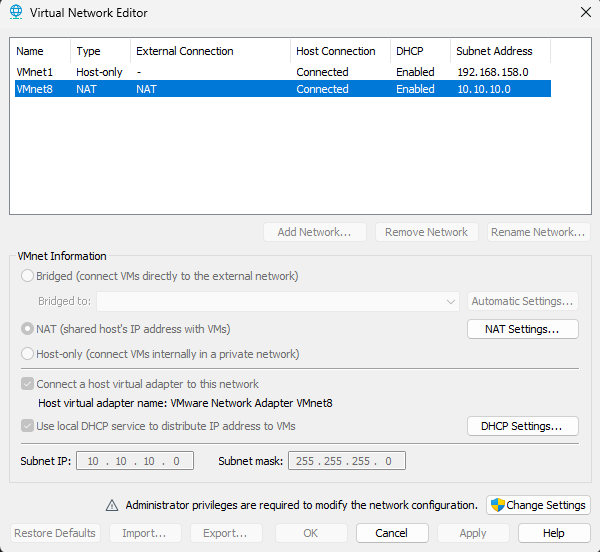
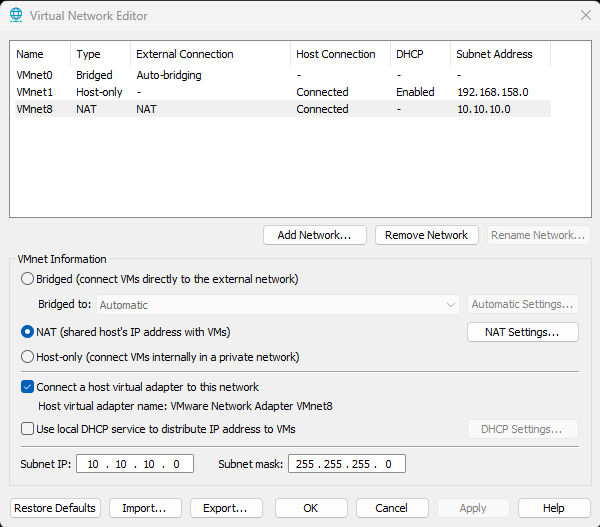
Disable VMnet8 DHCP; update Phase 1 outstanding list
Turning off VMware's DHCP service on the lab network completes the
addressing design: every host is static and nothing hands out VMware's
own DNS server, which would break AD domain joins for any VM added
later.

Replaces the VMnet8 screenshot, which still showed DHCP enabled and
contradicted the surrounding text.

diff --git a/docs/phase-1-build-notes.md b/docs/phase-1-build-notes.md
@@ -437,10 +437,11 @@ and both connection tests returning `True`.
 
 ## Outstanding
 
-- [ ] Disable the local DHCP service on VMnet8 — currently still enabled, which contradicts the
-      network plan. Not breaking anything while every host is static, but any future VM (or a reset
-      adapter) would receive VMware's DNS server and fail to join the domain.
-- [ ] Confirm the client's DNS is `10.10.10.10` and nothing else — no public resolver as a secondary.
+- [x] Disable the local DHCP service on VMnet8. Nothing was breaking while every host was static, but
+      leaving it enabled meant any future VM — a Kali host in Phase 4, a second client — would receive
+      an address *plus VMware's DNS server*, which is exactly the condition that breaks AD domain
+      joins. The cause would be a checkbox on the hypervisor rather than anything visible on the VM.
+- [x] Confirm the client's DNS is `10.10.10.10` and nothing else — no public resolver as a secondary.
 - [x] Promote the DC to AD DS, create the `soclab.local` domain, and add a DNS forwarder to
       `10.10.10.2` so the DC can still resolve public names.
 - [x] Build the Rocky Linux host at `10.10.10.20`.
